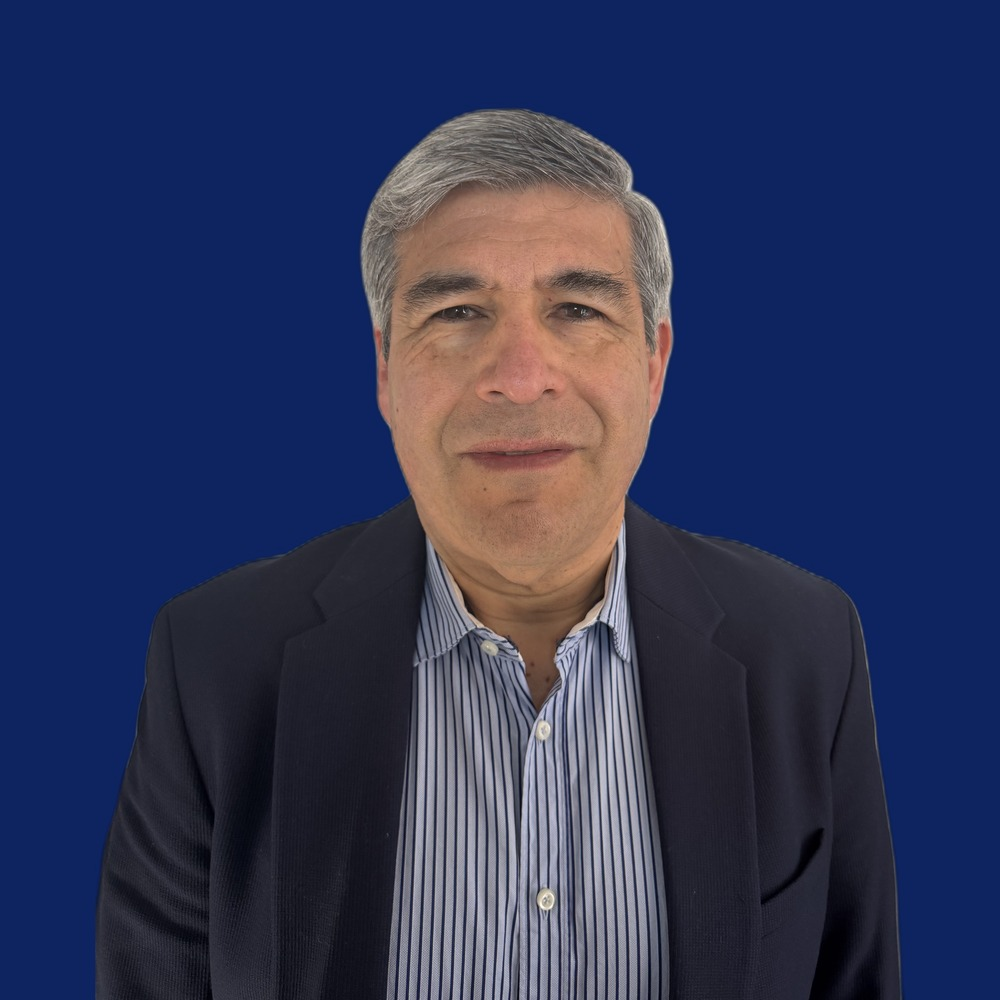
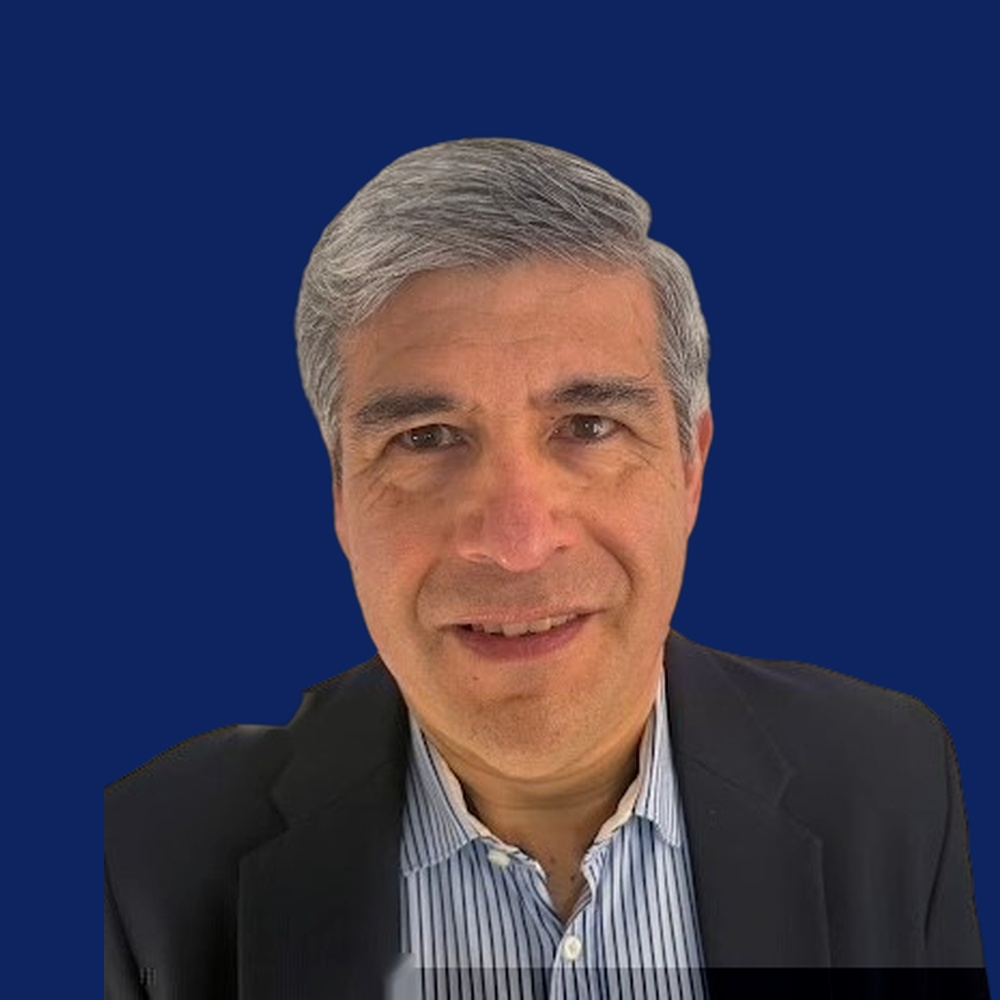
Reemplazar foto de Daniel con la versión nueva del cliente
Foto descargada de Drive, recortada y compuesta sobre el navy sólido del
sitio para mantener el mismo formato que el resto del equipo (1000x1000).

Se encontraron y corrigieron 2 íconos de "imagen no cargada" incrustados
en el archivo original (inpainting real, no un parche de color plano).
El encuadre original tiene menos torso visible que las demás fotos del
equipo — se priorizó escalar el contenido real hasta el borde del lienzo
(cabeza ~30% más grande) en vez de simular tela inexistente con un
degradado, que se veía como un manchón. Verificado a tamaño real del
avatar circular del sitio.

diff --git a/PENDIENTES.md b/PENDIENTES.md
@@ -6,6 +6,47 @@ contenido inventado: son huecos explícitos a completar con material real del
 cliente antes de lanzar. Ver también `DGV_Spec_Desarrollo.md` sección 9.2
 (checklist de lanzamiento), que ya listaba varios de estos ítems.
 
+## Etapa 27 (Foto nueva de Daniel)
+
+El cliente compartió una foto nueva de Daniel ("Daniel - nueva.jpg", vía
+Google Drive de Agustín) para reemplazar `public/images/team/daniel.jpg`,
+manteniendo el mismo formato/fondo que el resto del equipo (recorte
+cuadrado 1000×1000, compuesto sobre el navy sólido del sitio
+`rgb(14,36,96)`).
+
+- [x] Descargada desde Drive (`mcp__Google_Drive__download_file_content`,
+      fileId `1SnKAUCZZ3QQfvIbfygRE2aJL86o5otWT`) — el acceso directo a
+      Drive había sido denegado en un intento anterior; funcionó al
+      reintentar.
+- [x] **Defecto encontrado en el archivo original, sin relación con el
+      procesamiento**: 2 instancias de un ícono cuadriculado
+      blanco/negro/verde (parece un ícono de "imagen no cargada" de
+      alguna app de mensajería) incrustadas en la foto — una cerca del
+      cuello/solapa, otra cerca de un botón de la camisa. Detectadas con
+      un filtro de contraste direccional (alto en X y en Y a la vez, a
+      diferencia de las rayas de la camisa que solo varían en X) y
+      corregidas con inpainting real (`cv2.inpaint`, algoritmo Telea) en
+      vez de un parche de color plano — reconstruye la textura de la tela
+      respetando el borde diagonal cuello/saco, sin dejar un parche visible.
+- [x] Fondo removido con `rembg` (modelo BRIA RMBG 2.0) — recorte limpio,
+      sin halos visibles incluso contra un fondo de prueba magenta.
+- [x] **Encuadre**: la foto nueva tiene menos torso visible debajo de la
+      cara que el resto de las fotos del equipo (recorte más cerrado en
+      el original). Igualar el ancho de cabeza exacto a los demás dejaba
+      un hueco de navy visible debajo de los hombros (efecto "cabeza
+      flotante"); se probó primero rellenar ese hueco extendiendo/
+      difuminando el color del saco hacia el fondo, pero el resultado se
+      veía como un manchón borroso poco convincente. Se optó en cambio por
+      escalar la foto para que el contenido real llegue exactamente hasta
+      el borde inferior del lienzo (sin inventar tela), aceptando una
+      cabeza  ligeramente más grande (~30%) que la de sus compañeros —
+      compromiso verificado visualmente como el resultado más limpio,
+      confirmado además a tamaño real del avatar circular de 80px que usa
+      el sitio (`object-cover` + `rounded-full` en `TeamGrid.astro`).
+- [x] Reemplazado `public/images/team/daniel.jpg`. Verificado: `astro
+      check` (0 errores), build (20 páginas), captura real de la sección
+      "Nuestro equipo" en `/nosotros`.
+
 ## Etapa 26 (Halo blanco en las fotos de Sonia y Victoria)
 
 El cliente notó un reflejo/halo blanco alrededor del cabello en las fotos
